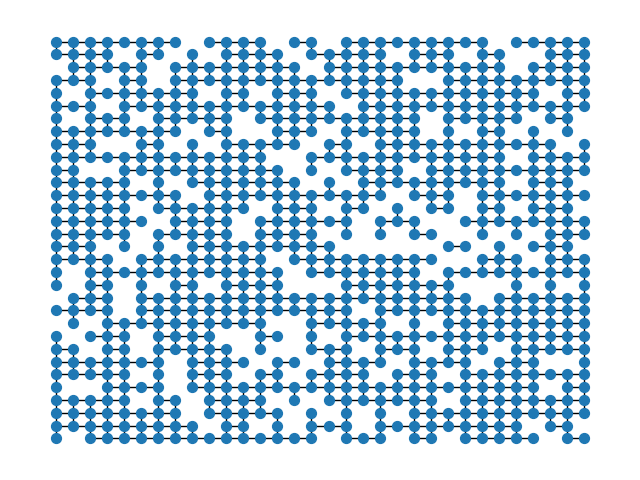
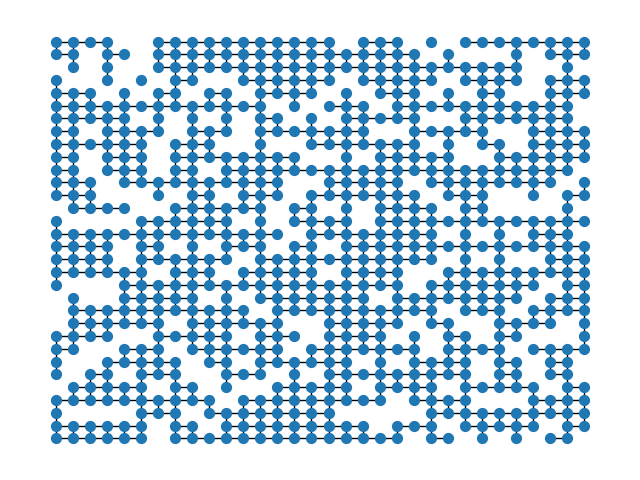
robustness

diff --git a/main.py b/main.py
@@ -7,7 +7,8 @@ from utils.generate_scenarios import load_scenarios
 from utils.soc_ms import cost
 from utils.vis_graph import vis_init, vis_assign
 
-scenario = load_scenarios('./instance_scenarios/16_16_0.1/scenario_1.pkl')
+scenario = load_scenarios('./instance_scenarios/32_32_0.2/scenario_1.pkl')
+# scenario = load_scenarios('./instance_scenarios/16_16_0.2/scenario_1.pkl')
 grid, graph, agent_pos, total_tasks = scenario[0], scenario[1], scenario[2], scenario[3]
 vis_init(graph, agent_pos, total_tasks)
 
@@ -16,10 +17,10 @@ h_time = time.time()
 task_idx, tasks = hungarian(graph, agent_pos, total_tasks)
 print('INIT || SOC: {:.4f} / MAKESPAN: {:.4f} / TIMECOST: {:.4f}'
       .format(cost(tasks, graph)[0], cost(tasks, graph)[1], time.time() - h_time))
-vis_assign(graph, agent_pos, tasks, 'hungarian')
+# vis_assign(graph, agent_pos, tasks, 'hungarian')
 
 """Second step: LNS"""
-for itr in range(100):
+for itr in range(10):
     lns_time = time.time()
 
     # Destroy
@@ -42,4 +43,4 @@ for itr in range(100):
 
     print('{}_Solution || SOC: {:.4f} / MAKESPAN: {:.4f} / TIMECOST: {:.4f}'
           .format(itr + 1, cost(tasks, graph)[0], cost(tasks, graph)[1], time.time() - lns_time))
-    vis_assign(graph, agent_pos, tasks, itr + 1)
+    # vis_assign(graph, agent_pos, tasks, itr + 1)

diff --git a/utils/generate_scenarios.py b/utils/generate_scenarios.py
@@ -15,7 +15,7 @@ from utils.vis_graph import vis_graph
 """
 
 
-def save_scenarios(itr=10, size=32, obs_ratio=.2, C=2, M=100, N=200):
+def save_scenarios(itr=10, size=32, obs_ratio=.2, C=2, M=10, N=10):
     # C: task length -> if 2, tau=(s, g)
     # M: the number of agents
     # N: the number of tasks
@@ -35,7 +35,10 @@ def save_scenarios(itr=10, size=32, obs_ratio=.2, C=2, M=100, N=200):
         # empty_grid = (instance.reshape(-1) == 0).nonzero()[0].tolist()
         empty_idx = list(range(len(g)))
         agent_idx = random.sample(empty_idx, M)
-        tasks_len = random.choices(list(range(2, C + 1)), k=N)
+        if (C == 1) or (C == 2):
+            tasks_len = [C for _ in range(N)]
+        else:
+            tasks_len = random.choices(list(range(1, C + 1)), k=N)
         agent_pos = np.array([a for a in g])[agent_idx]
         empty_idx = list(set(empty_idx) - set(agent_idx))
 

diff --git a/LNS/hungarian.py b/LNS/hungarian.py
@@ -41,7 +41,11 @@ def hungarian(graph, agent_pos, tasks):
         first = False
 
     h_tasks = dict()
-    for k in list(task_idx.keys()):
-        h_tasks[k] = [{i: tasks[i]} for i in list(task_idx.values())[k]]
+    for k in task_idx.keys():
+        if type(list(task_idx.values())[k]) == np.int64:
+            i = list(task_idx.values())[k]
+            h_tasks[k] = [{i: tasks[i]}]
+        else:
+            h_tasks[k] = [{i: tasks[i]} for i in list(task_idx.values())[k]]
 
     return task_idx, h_tasks

diff --git a/LNS/shaw.py b/LNS/shaw.py
@@ -1,10 +1,15 @@
 import random
 
+import numpy as np
+
 from utils.astar import graph_astar
 
 
 def removal(tasks_idx, tasks, graph, N=2):
-    t_idx = [v[i] for v in tasks_idx.values() for i in range(len(v))]
+    t_idx = list()
+    for v in tasks_idx.values():
+        t_idx += [v]
+    t_idx = np.array(t_idx).reshape(-1).tolist()
     chosen = random.choice(t_idx)
     t_idx.remove(chosen)
 
